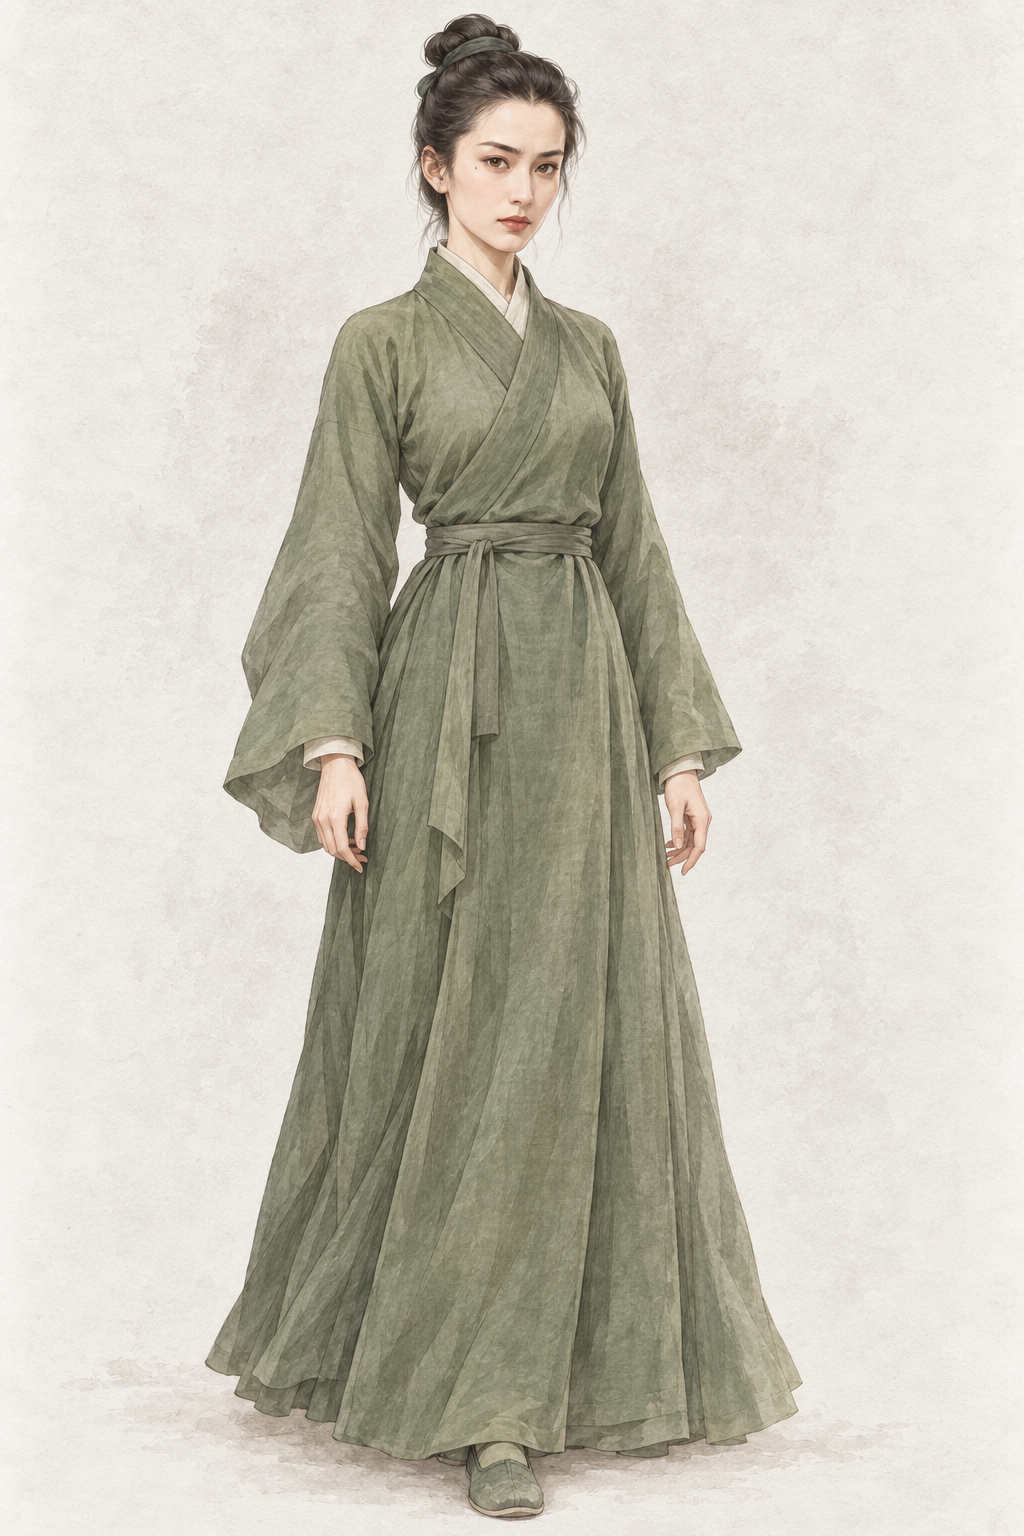
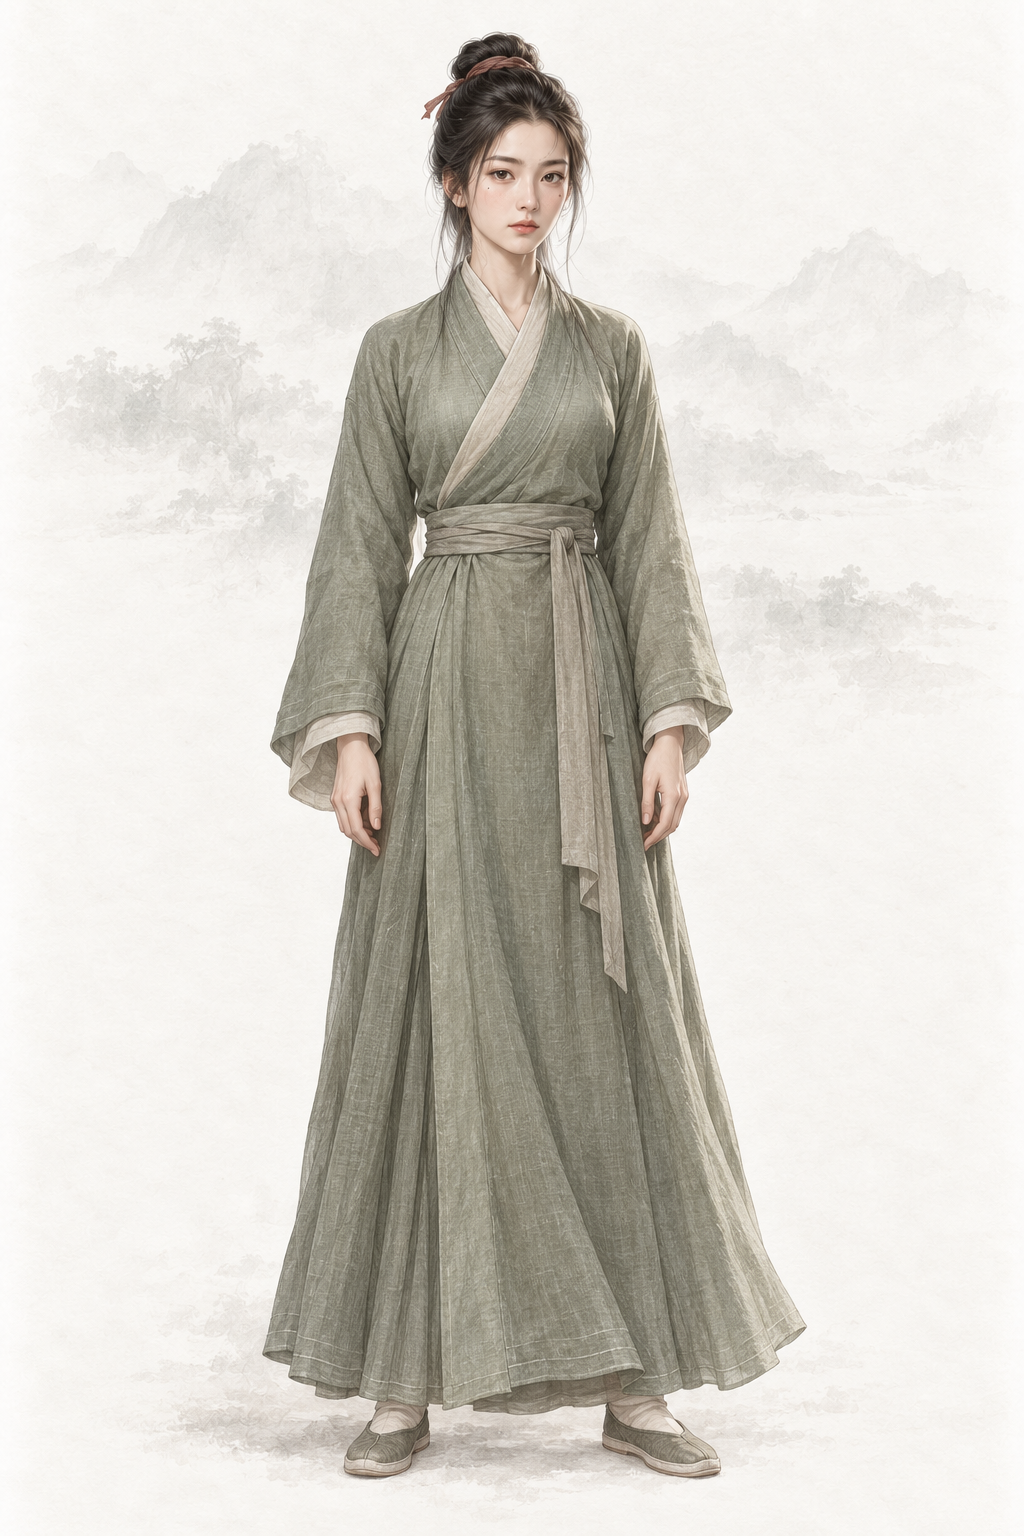
assets(character): por_npc_zhujue__ch00_f_base 主角（女）· 春秋末·越国（codex）
女主 ch00 锚点（文字原创新脸，十五个时代的唯一身份参考）

diff --git a/assets/default/prompts/characters/protagonist/npc_zhujue__f_ch00.md b/assets/default/prompts/characters/protagonist/npc_zhujue__f_ch00.md
@@ -19,11 +19,30 @@ status: redo
 redo_reason: "女主跨书锚点：现图以影视剧照为灵感、且与 ch01–ch11 不是同一张脸，改用文字原创面容重定锚点"
 reference_upload:
 - assets/default/baseline/character/female/ref_npc_wangyuyan__ch01_base01.png
+codex_prompt_rev: 2026-10-02
 ---
 
 # 主角（女）· 越女剑 · 春秋末·越国
 
 ## Gemini 提示词
+
+> 2026-10-02 AR-31 改写（1 号出图员，codex exec · image_gen 出图）：重要人物借鉴经典影视造型，只写成文字——不写演员名、不上传剧照、原创面孔；主角和美人画得好看，去 AI 味，禁止幼态。出图时上传两张同性别基线立绘作画风参考（放在最后）。审核组原稿保留在下一节作历史。
+
+```text
+生成一张 2:3 竖幅全身人物立绘：单人、单一视角、完整全身——头顶、双手、双脚和手中器物的两端都在画面内，四周留出自然空白；人物站姿自然，身体基本朝向正面，头部端正（不歪头、不仰不俯），镜头平视。
+【画风】写实手绘古风人物插画，与本项目写实武侠角色立绘同一画风：人物是完整、坚实、比例真实的写实绘画；皮肤有真实质感——细小毛孔、细纹、晒痕、轻微色斑和自然的左右不对称，不磨皮、不油亮；头发有一根根的发丝和自然碎发；布料看得出经纬纹理、厚薄和自然垂坠的褶皱，带穿用过的轻微旧化，但完整不破烂；整体设色低饱和、沉稳；柔和的自然光从左上方照来，明暗过渡自然，不打舞台光、轮廓光或美颜柔光。这是手绘写实绘画，不是照片，不是三维渲染，也不是动漫或游戏 CG。
+【背景】不透明的暖浅灰色纸底，只在远处有极淡的水墨远山和薄雾，大面积留白；人物与背景明暗分明、轮廓边缘干净完整（后续要自动抠图），水墨和纸纹只在背景里，不侵入人物和衣服；脚下只有很淡的一点接触阴影。
+【人物】主角（女）：本作原创的穿越者——一个落入《越女剑》春秋末越国（约公元前 482 年）的现代人。此刻刚入书，是在越地山野间观察陌生环境的普通行旅者。
+【本人面容（十五个时代统一，不能变）】约二十八岁的现代中国女青年，原创面孔，不像任何演员或书中其他人物。略长的鹅蛋脸，颧骨清楚，下颌利落而不尖；眉毛偏浓、平直，眉尾微微上扬（不是细柳眉、不是挑眉）；深棕色细长杏眼、内双，眼神清醒专注；鼻梁秀直、鼻头略圆；唇形清楚、上唇略薄，嘴角平；右眼外下方一颗清楚可见的浅褐色小痣（全书标志）；暖中性肤色带一点日晒，皮肤有真实纹理，素面不施浓妆。中等偏高的个子，肩背舒展、腰背挺直，四肢有行动的力量（约 7 头身）；乌黑直发、发量浓密。是成熟有主见的成年女子：沉静、可靠、带一点好奇，既不柔弱也不妩媚。整体要好看、有魅力：清秀耐看、英气而美丽（但不是网红或模特脸）。
+【主角标志】发髻上系一根褪色的朱红细绳，露出短短的绳头——每个时代都保留这根红绳。
+【服饰】竹青色交领右衽的一体深衣（上衣下裳连成一件，腰带以下前片闭合、不敞开），浅麻色内领，窄布带束腰，裙摆离地便于行走，平底素履；乌黑头发全部收成朴素的椎髻，用布条固定、系一根朱红细绳，不戴珠翠。
+【道具】空手，不带青铜剑、竹棒或任何兵器。
+【姿态与神情】身体基本正面，双手空着自然垂在身侧，双脚稳稳站立；神情沉静而好奇，像刚抬头打量这片陌生山野。成年女性的身体比例（约 7 头身），衣着完整端庄、不透明、不暴露、不性感化。
+【不要】画面里不要任何文字、题款、印章、签名、水印、边框、分格或多视图；不要第二个人；不要幼态（童颜、娃娃脸、婴儿肥、儿童或少年身材、大头小身）；不要塑料感皮肤、磨皮美颜、网红脸（尖下巴大眼高鼻的模板脸）、过度对称、浓妆、偶像式打光、蜡像感；不要照片质感、三维渲染或动漫大眼；不要歪头、斜镜头；不要多指、缺指（设定的伤残除外）、手与器物粘连或悬空；汉式交领必须右衽（穿着者的左襟压在右襟上），不要左衽（设定为少数民族服制的除外），不要水平镜像；不要现代物品、发光特效、法阵或能量光。不要明星脸或模特式五官；不要与书中男女主角撞脸；不要具名神兵、门派徽记、官服；不要年龄变小或变老。不要像赵敏、王语嫣、黄蓉、小龙女等书中女角；不要白色仙女裙、披帛飘带、开襟外袍；不要春秋以后的服饰。
+【画风基线】随提示词上传的参考图里，最后两张是本项目的立绘画风基线：只参考它们的画风、用色、光线、质感和暖浅灰纸底加淡水墨的背景处理，整体画风必须与它们一致——精细写实的数字手绘插画，不是油画，不要厚涂笔触和画布纹理。参考图只取画风、光线、质感和背景处理，不取长相：不要照搬基线图里人物的长相、年龄、发型、服饰和姿势。
+```
+
+## 审核组 Gemini 提示词（2026-10-02 AR-30 重审稿；AR-31 改写前，历史，不再用于出图）
 
 > 2026-10-02 重要人物立绘重审（A 组，`tools/agents/reports/REVIEW-portraits-A-ch00-04.md`）：**整体重出**。女主跨书锚点：现图以影视剧照为灵感、且与 ch01–ch11 不是同一张脸，改用文字原创面容重定锚点。
 > 本条不上传任何参考图（`reference_upload: []`）；frontmatter 的 `references` 与本节以下内容是旧出图管线的历史记录，不再用于出图。
